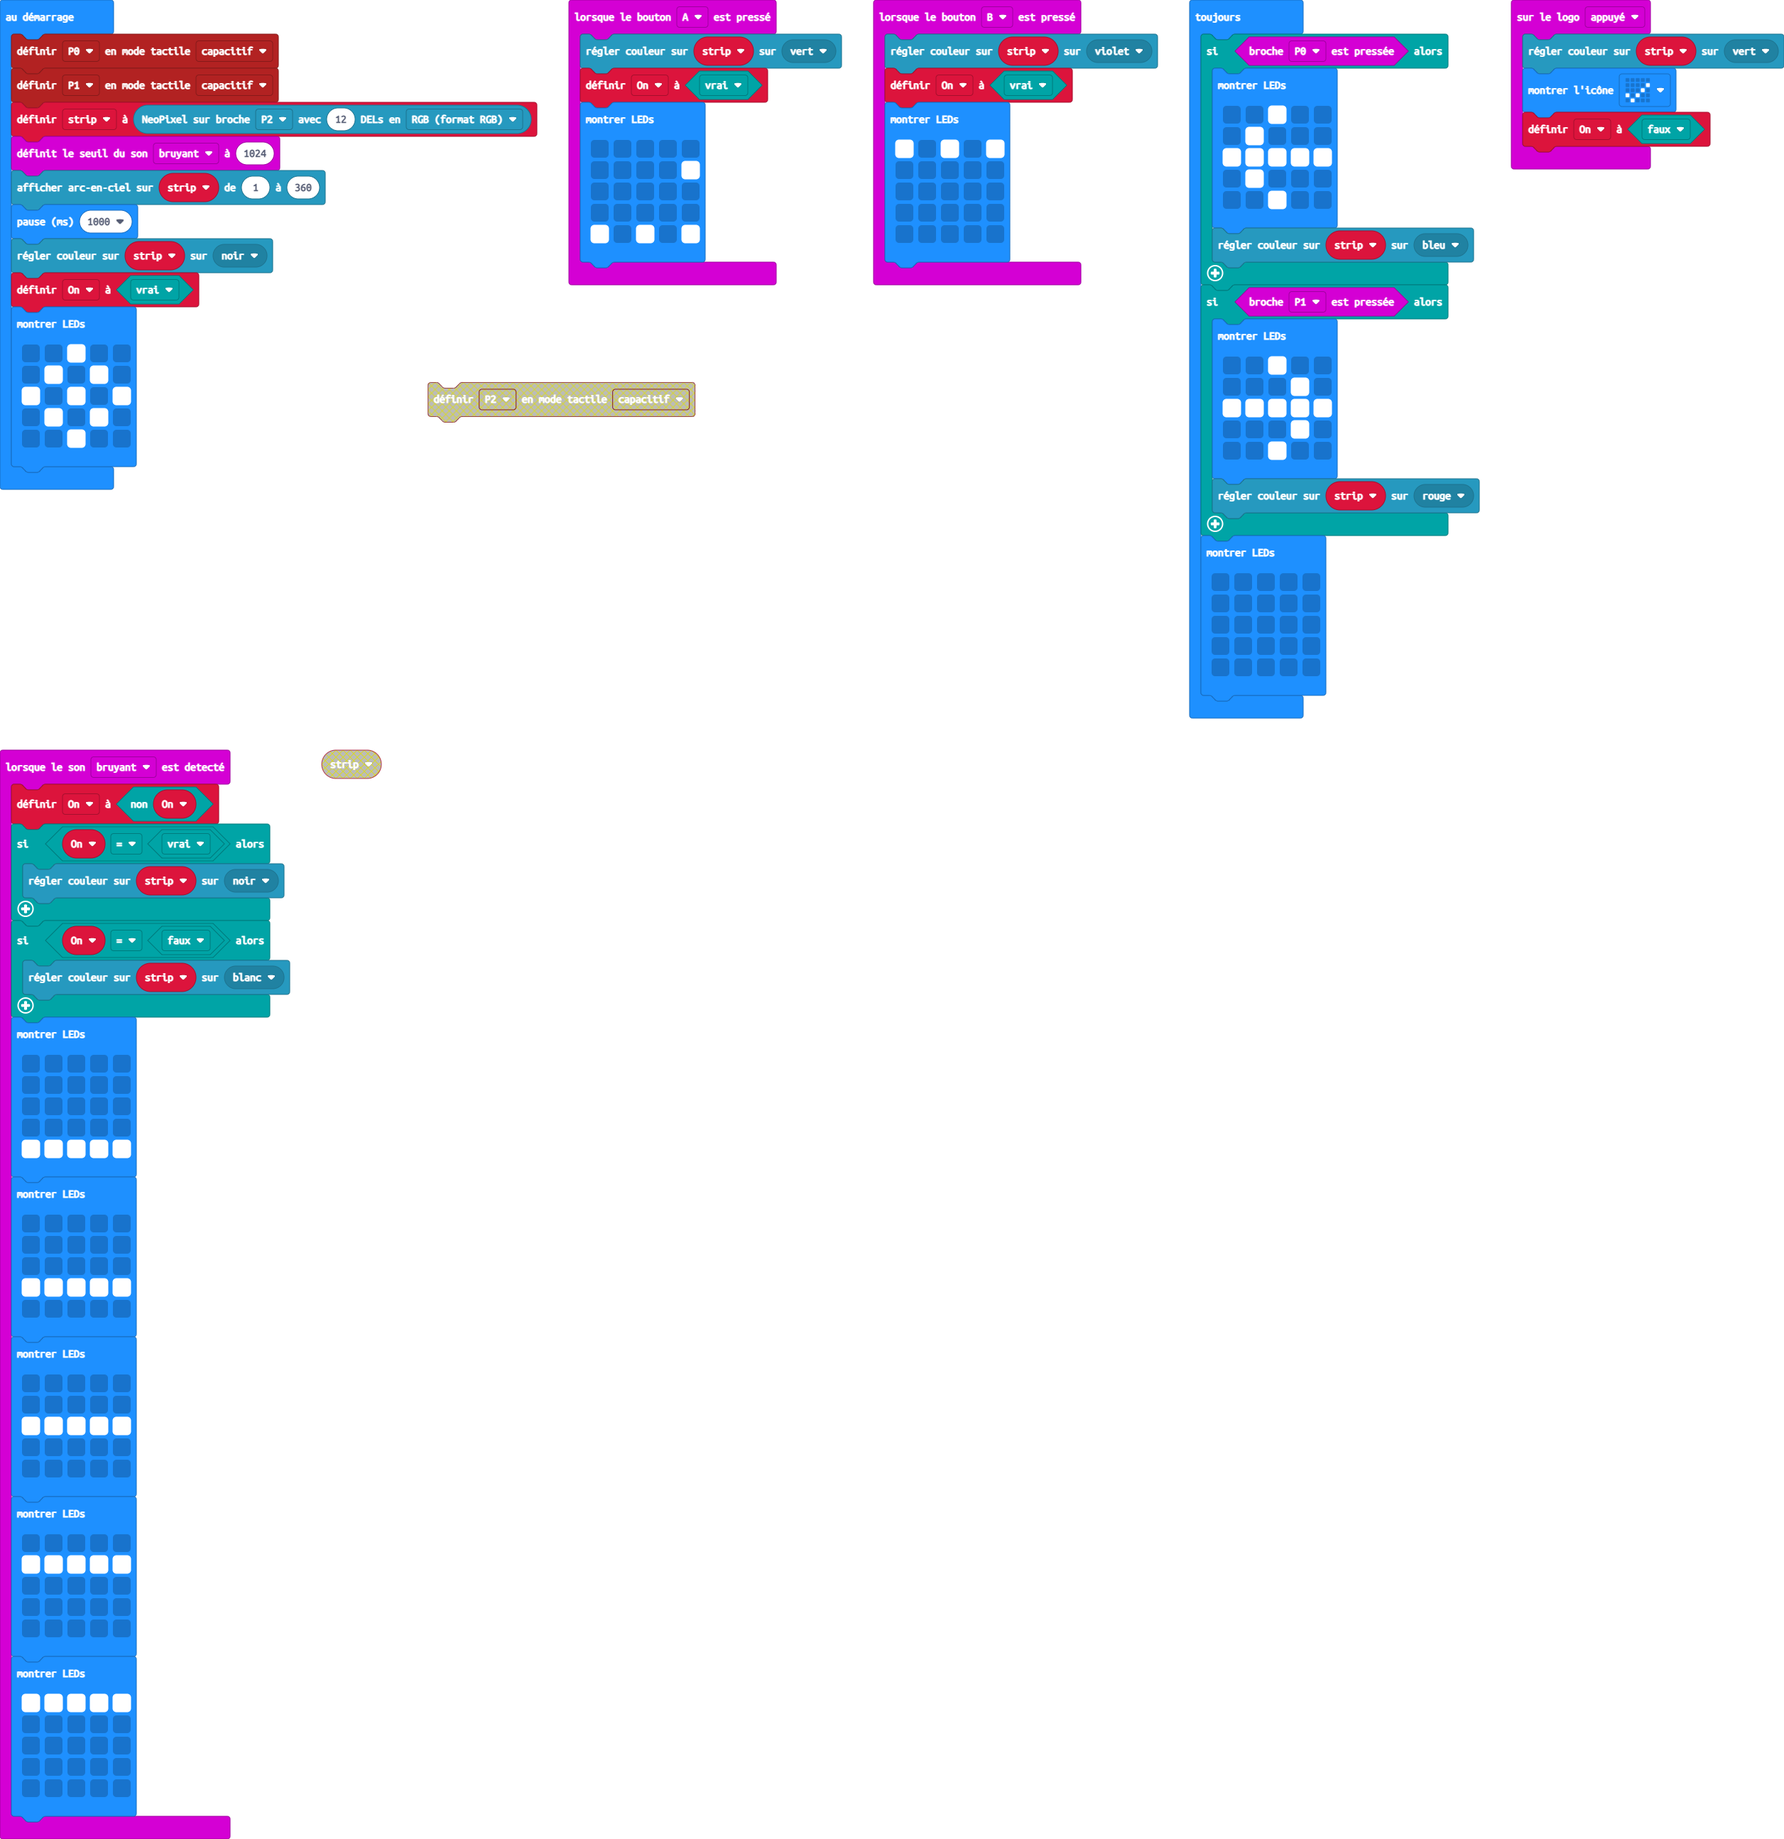
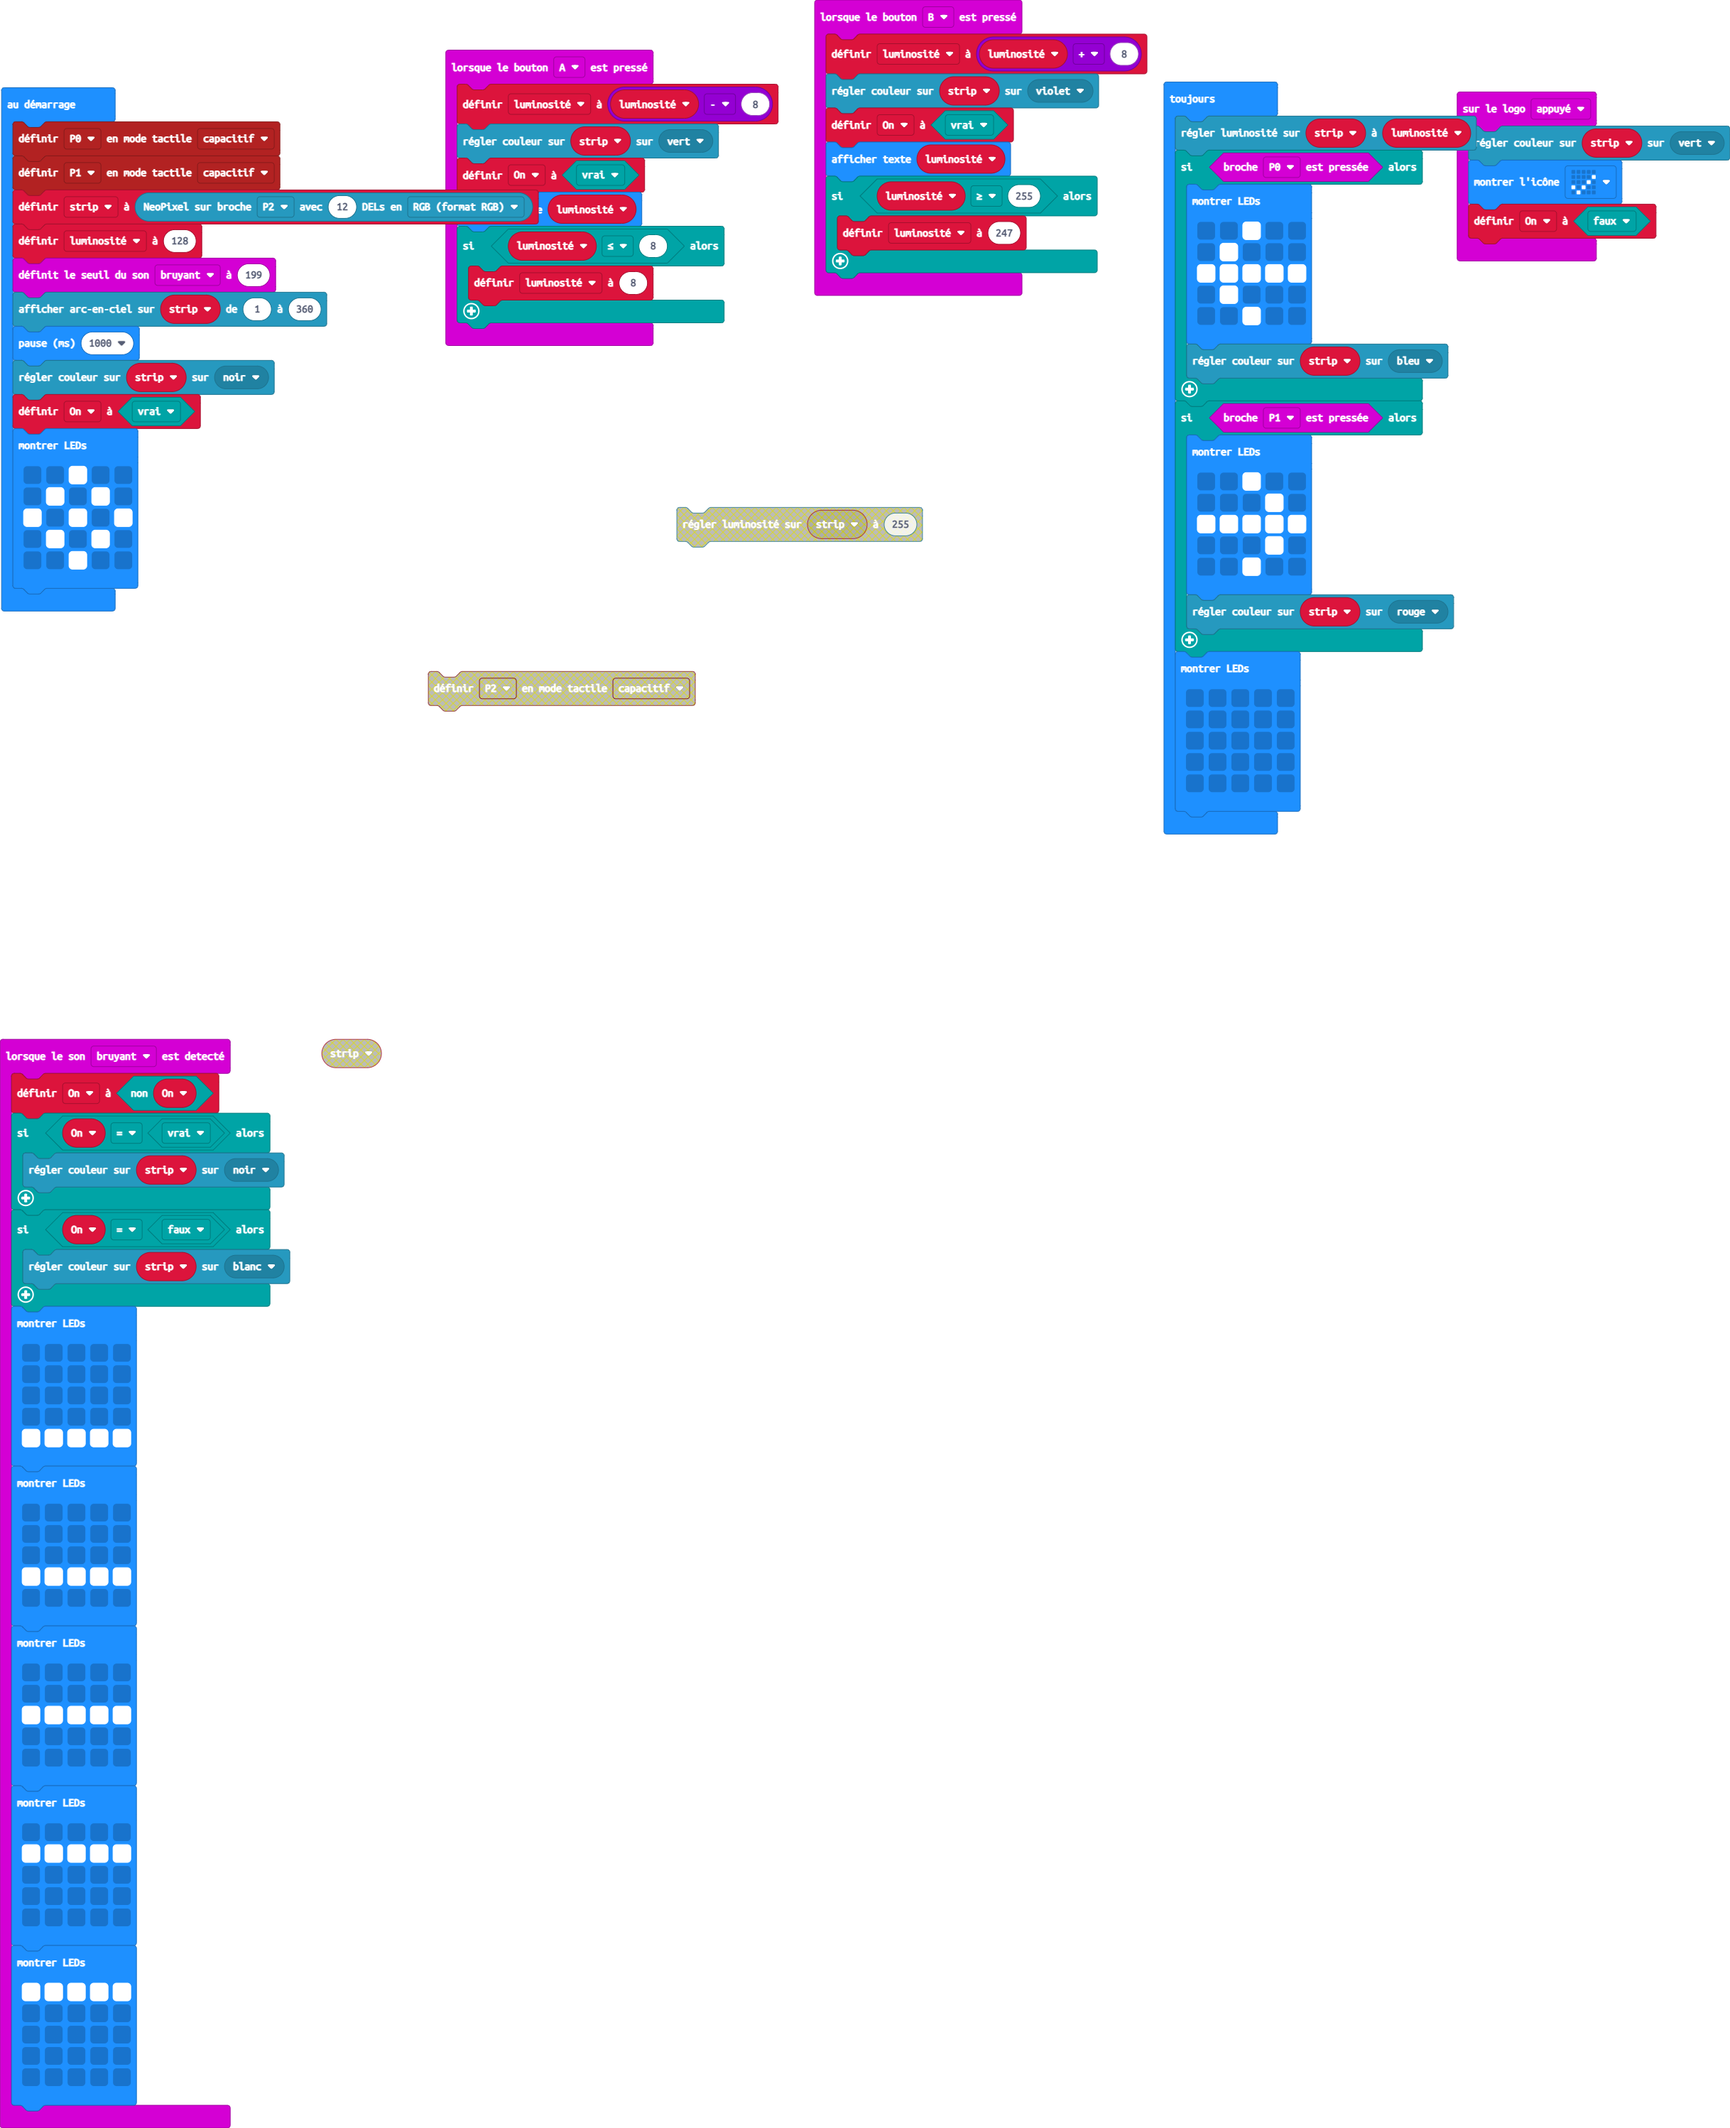
Mise à jour main.blocks, main.ts

diff --git a/main.ts b/main.ts
@@ -43,26 +43,22 @@ input.onSound(DetectedSound.Loud, function () {
         `)
 })
 input.onButtonPressed(Button.A, function () {
+    luminosité = luminosité - 8
     strip.showColor(neopixel.colors(NeoPixelColors.Green))
     On = true
-    basic.showLeds(`
-        . . . . .
-        . . . . #
-        . . . . .
-        . . . . .
-        # . # . #
-        `)
+    basic.showString("" + (luminosité))
+    if (luminosité <= 8) {
+        luminosité = 8
+    }
 })
 input.onButtonPressed(Button.B, function () {
+    luminosité = luminosité + 8
     strip.showColor(neopixel.colors(NeoPixelColors.Violet))
     On = true
-    basic.showLeds(`
-        # . # . #
-        . . . . .
-        . . . . .
-        . . . . .
-        . . . . .
-        `)
+    basic.showString("" + (luminosité))
+    if (luminosité >= 255) {
+        luminosité = 247
+    }
 })
 input.onLogoEvent(TouchButtonEvent.Pressed, function () {
     strip.showColor(neopixel.colors(NeoPixelColors.Green))
@@ -70,11 +66,13 @@ input.onLogoEvent(TouchButtonEvent.Pressed, function () {
     On = false
 })
 let On = false
+let luminosité = 0
 let strip: neopixel.Strip = null
 pins.touchSetMode(TouchTarget.P0, TouchTargetMode.Capacitive)
 pins.touchSetMode(TouchTarget.P1, TouchTargetMode.Capacitive)
 strip = neopixel.create(DigitalPin.P2, 12, NeoPixelMode.RGB)
-input.setSoundThreshold(SoundThreshold.Loud, 1024)
+luminosité = 128
+input.setSoundThreshold(SoundThreshold.Loud, 199)
 strip.showRainbow(1, 360)
 basic.pause(1000)
 strip.showColor(neopixel.colors(NeoPixelColors.Black))
@@ -87,6 +85,7 @@ basic.showLeds(`
     . . # . .
     `)
 basic.forever(function () {
+    strip.setBrightness(luminosité)
     if (input.pinIsPressed(TouchPin.P0)) {
         basic.showLeds(`
             . . # . .
